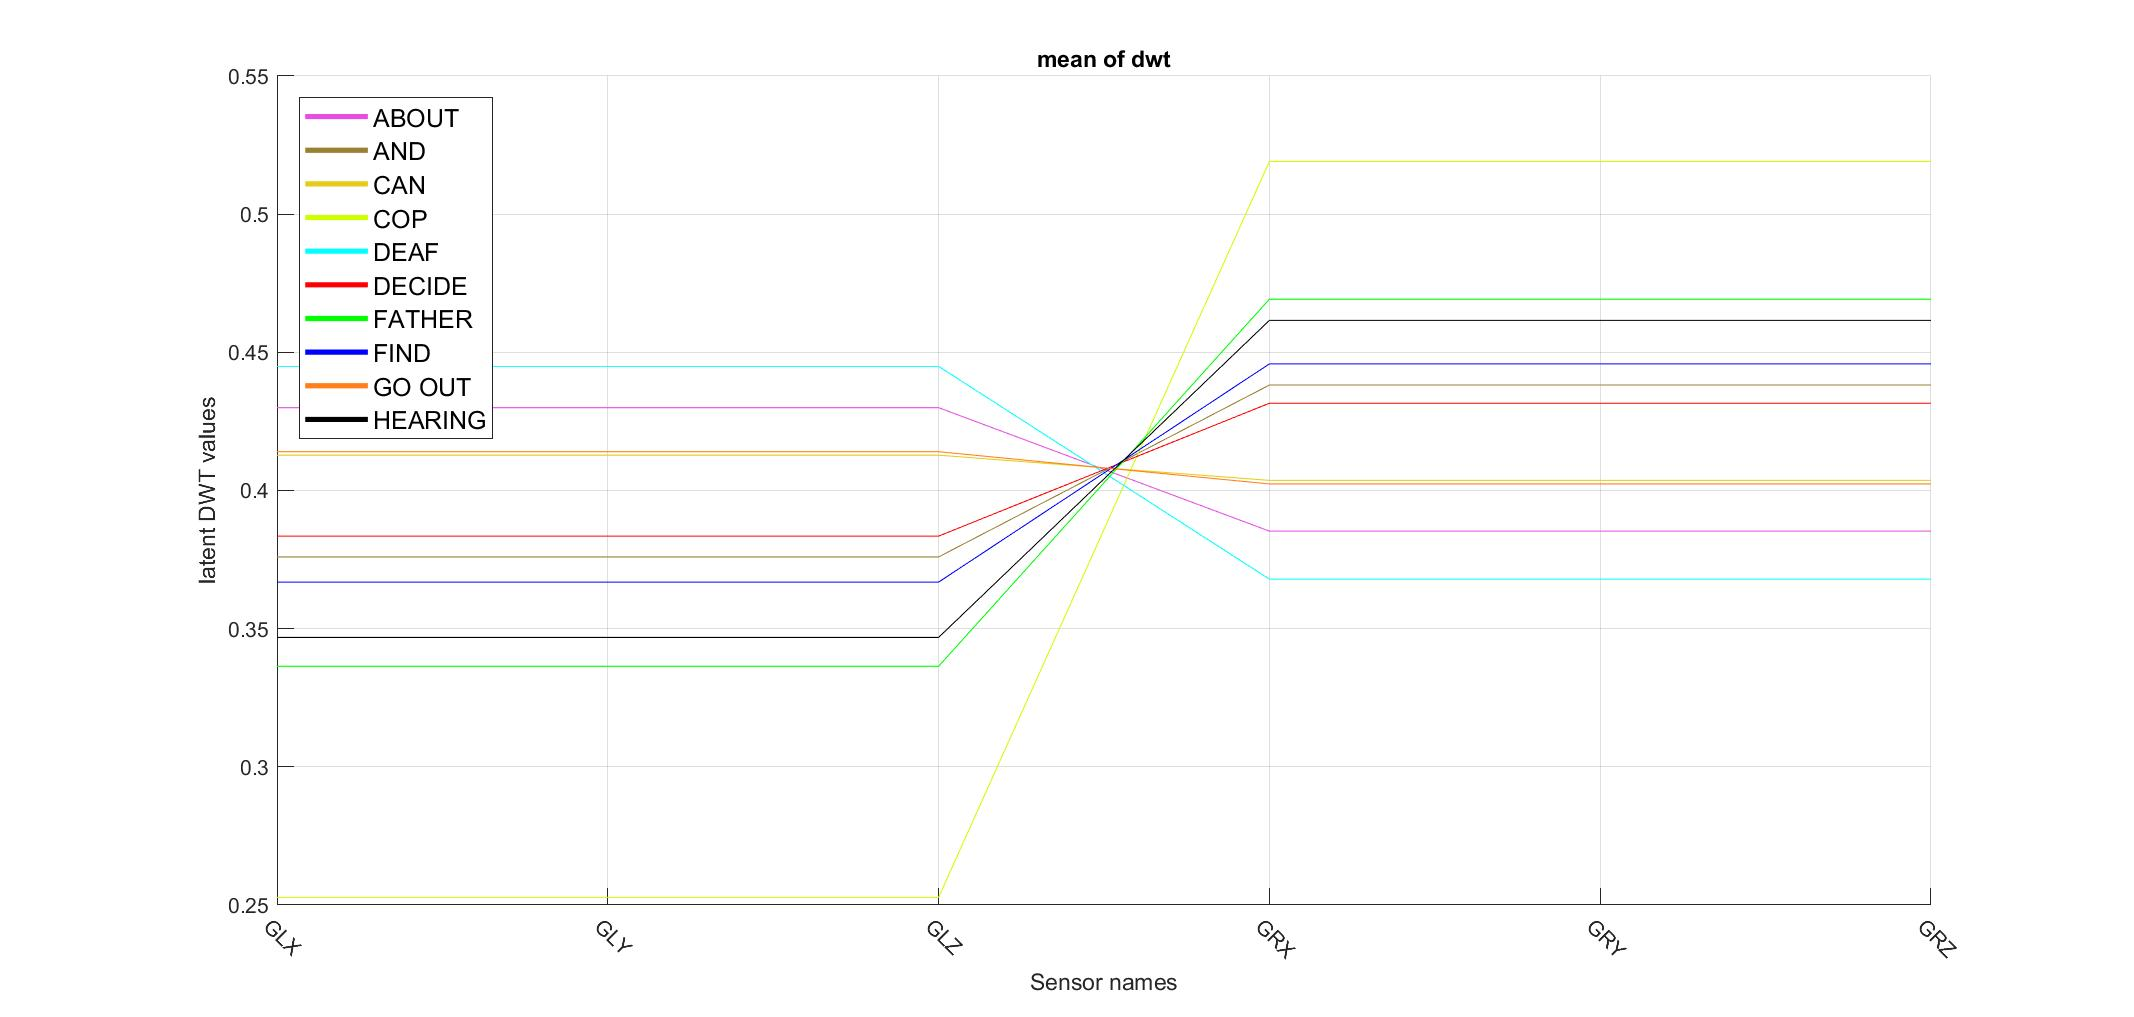
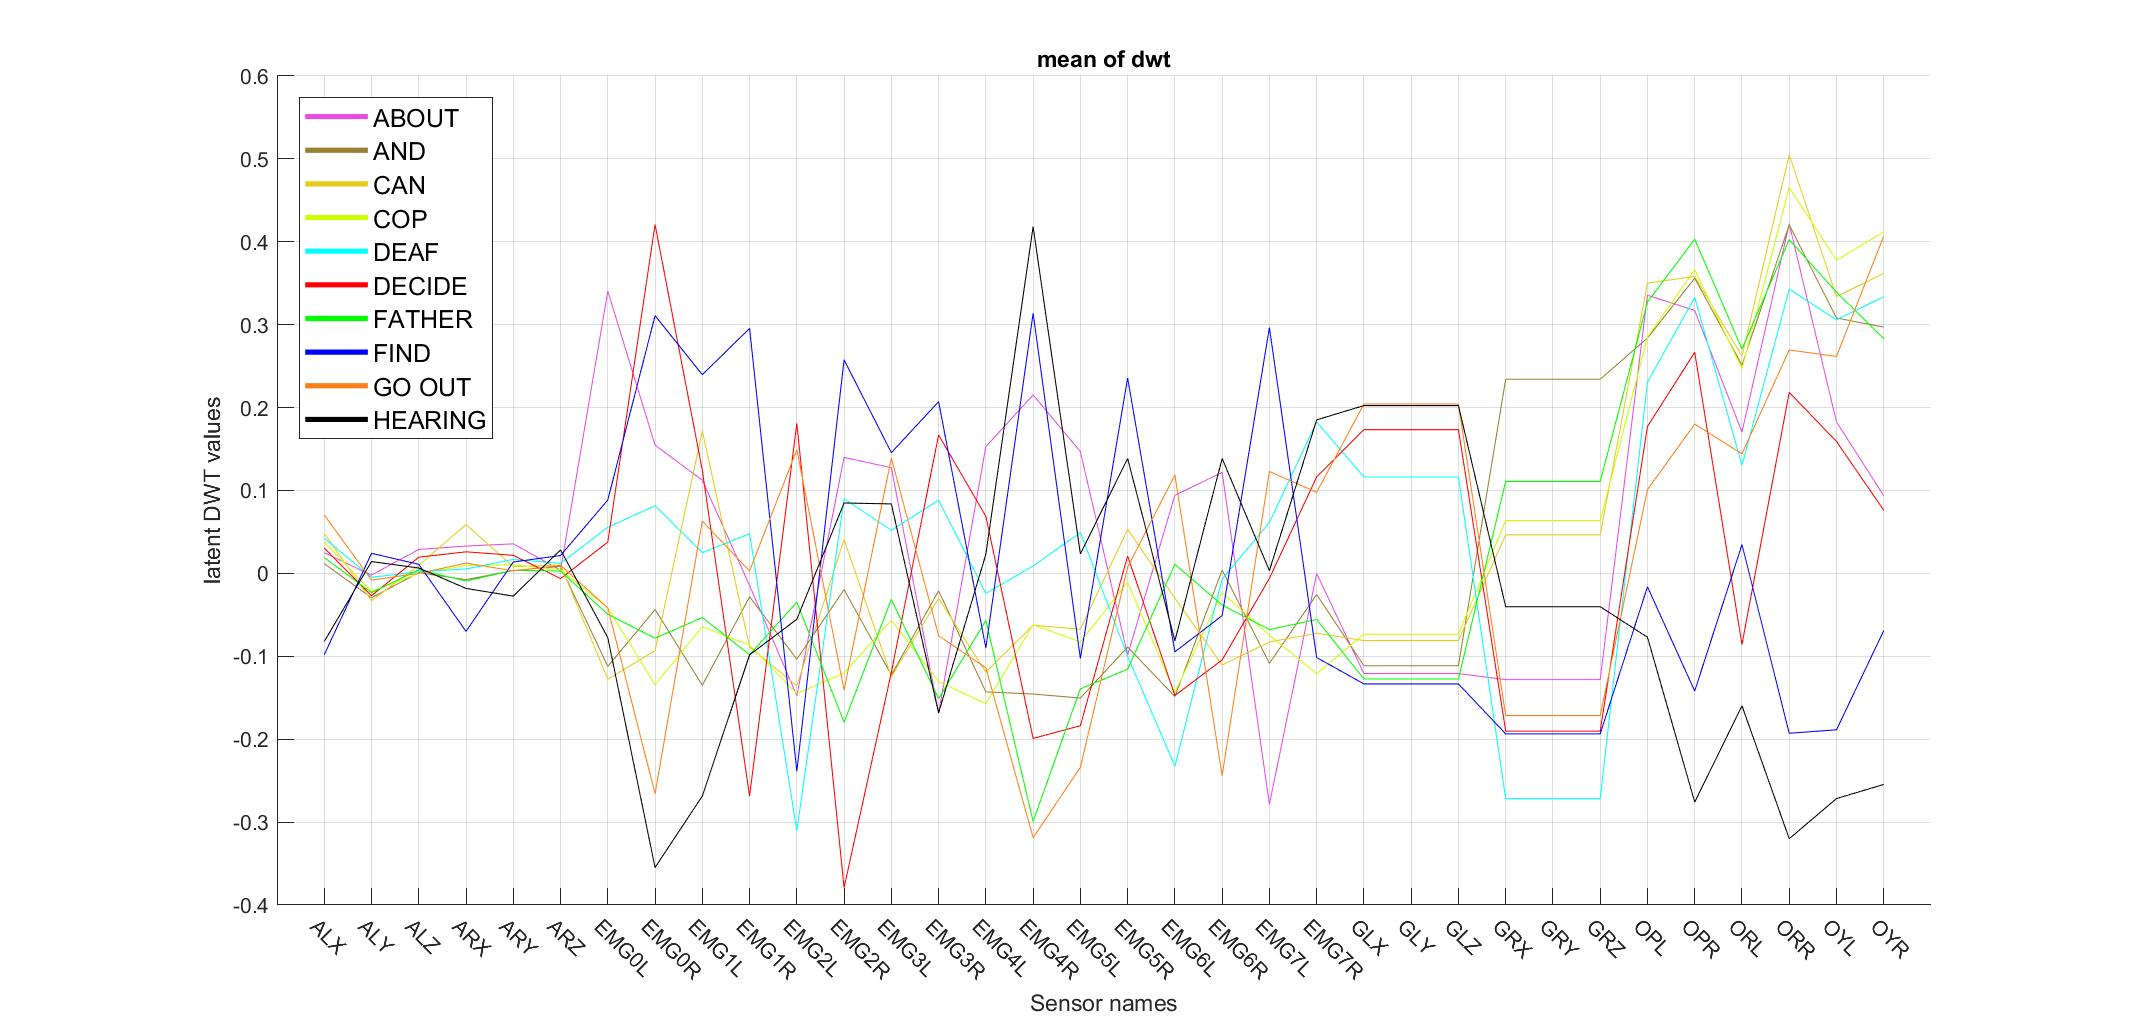
Added task3 and plot_pca

diff --git a/plot_pca.m b/plot_pca.m
@@ -1,24 +1,43 @@
+num_components=3;
+figure('units','normalized','outerposition',[0 0 1 1]);
+SensorNames = {'ALX','ALY','ALZ','ARX','ARY','ARZ','EMG0L','EMG0R','EMG1L','EMG1R','EMG2L','EMG2R','EMG3L','EMG3R','EMG4L','EMG4R','EMG5L','EMG5R','EMG6L','EMG6R','EMG7L','EMG7R','GLX','GLY','GLZ','GRX','GRY','GRZ','OPL','OPR','ORL','ORR','OYL','OYR'};
+%SensorNames = {'GLX','GLY','GLZ','GRX','GRY','GRZ'};
 
-SensorNames = {'ALX','ALY','ALZ','ARX','ARY','ARZ','EMG0L','EMG0R','EMG1L','EMG1R','EMG2L','EMG2R','EMG3L','EMG3R','EMG4L','EMG4R','EMG5L','EMG5R','EMG6L','EMG6R','EMG7L','EMG7R','GLX','GLY','GLZ','GRX','GRY','GRZ','OPL','OPR','ORL','ORR','OYL','OYR'}
-
+colorspec = {[0.9 0.3 0.9];[0.6 0.5 0.2];[0.9 0.8 0.1];[0.8 1 0];[0 1 1];[1 0 0];[0 1 0];[0 0 1]; [1 0.5 0.1];[0 0 0];};
 for i = 1:num_components
-    x = 1:55;
+    x = 1:34;
     y = [];
    
    for j = 1:length(pca_output)
        y(:,j) = pca_output{1,j}{1,i};
         
    end
-   colorstring = 'bkrgycmwbk';
    figure(i); cla;
     
    
    for k = 1:length(pca_output)
-        disp(k);
-        hold on
+       hold on
+        plot(x,y(:, k),'Color', colorspec{k});set(gca,'XTick',1:34,'XTickLabel',SensorNames);xtickangle(-45);
+     [~, hobj, ~, ~] = legend({'ABOUT','AND','CAN','COP','DEAF', 'DECIDE', 'FATHER', 'FIND', 'GO OUT', 'HEARING'},'Fontsize',12,'Location','Northwest');
+%    [~, hobj, ~, ~] = legend({filesArray{k}(1:end-4)},'Fontsize',12,'Location','Northwest');
+    hl = findobj(hobj,'type','line');
+    set(hl,'LineWidth',2.5);
+    ht = findobj(hobj,'type','text');
+    set(ht,'FontSize',12);
+    ylabel('latent DWT values');
+    xlabel('Sensor names');
+    title("mean of dwt");
+    grid on
+   path = "C:\Users\varun ch\Desktop\HASITHA\academix\ASU\DM\American-Sign-Language\output\images\"+"pca_dwt";
+    %filename = "dwt"+filesArray{k}(1:end-4)
+% 	
+  %      hold on
     % plot(x,y(:, k), 'Color', [rand(1) rand(1) rand(1)])
-        plot(x,y(:, k), 'Color', colorstring(k))
+     %   plot(x,y(:, k), 'Color', colorstring(k))
     % set(gca,'XTick',1:34,'XTickLabel',SensorNames);
     %xtickangle(90);
    end
+   filename = "overlapped_pca_dwt"
+    saveas(gca, fullfile(char(path), char(filename)), 'jpeg');
+    
 end

diff --git a/task3.m b/task3.m
@@ -4,13 +4,12 @@ pca_input={};
 pca_output={};
 num_components = 3;
 
-for k = 1 : length(allGestures)
-    tempArray = mean(allGestures{k});
-    %tempArray = mean(allGestures{k}(:,:,1:6));
-    tempArr_size = size(tempArray);
-    temp = reshape(tempArray,[tempArr_size(1)*tempArr_size(2),tempArr_size(3)]);
-    pca_input{k}=temp;
-    [coeff,score,latent]  = pca(pca_input{k}.','NumComponents',num_components);
+    for j = 1 : length(allGestures)
+        pca_input{j} = dwtStats(:,:,j);
+    end
+
+ for k = 1 : length(allGestures)
+    [coeff,score,latent]  = pca(pca_input{k},'NumComponents',num_components);
     components= {};
     for l = 1:num_components
         components{l} = coeff(:,l:l);
